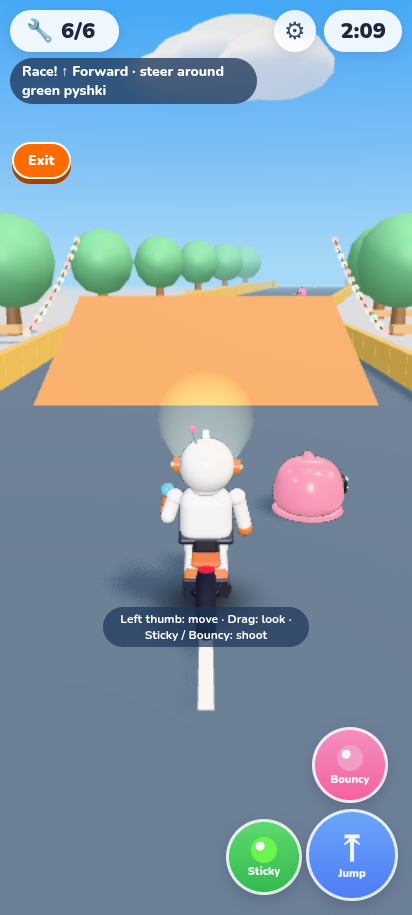
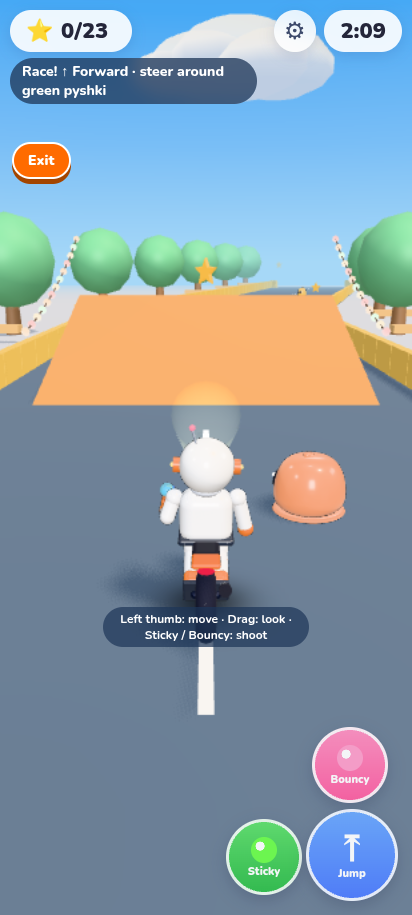
Race stars: low rows and ramp-only high stars, instanced spin, HUD counter and popup

diff --git a/src/ui/hud.ts b/src/ui/hud.ts
@@ -6,6 +6,7 @@ import { VEHICLES } from '../sim/vehicles';
 import { levelText, onLangChange, raceText, t } from './i18n';
 import { levelDef } from '../sim/levels';
 import { raceReady } from '../sim/race';
+import { courseStars } from '../sim/track';
 import { isClassic, onClassicChange, type SettingsPanel } from './settings';
 
 export function formatTime(s: number): string {
@@ -27,6 +28,9 @@ export class Hud {
   private rideBtn: HTMLButtonElement;
   private toastEl: HTMLDivElement;
   private trickEl: HTMLDivElement;
+  private bonusEl: HTMLDivElement;
+  private bonusTimer = 0;
+  private iconEl: HTMLElement;
   private toastTimer = 0;
   private trickTimer = 0;
   private labels: { el: HTMLElement; key: 'sticky' | 'bouncy' | 'jump' | 'block' }[] = [];
@@ -51,6 +55,7 @@ export class Hud {
       <div class="gate-compass" hidden><span>➤</span></div>
       <div class="toast"></div>
       <div class="trick"></div>
+      <div class="bonus-pop"></div>
       <button class="ride-btn" data-a="interact"></button>
       <div class="buttons">
         <button class="act act-sticky" data-a="sticky"><span class="ic"></span><span class="lb"></span></button>
@@ -74,6 +79,8 @@ export class Hud {
     this.rideBtn = q('.ride-btn');
     this.toastEl = q('.toast');
     this.trickEl = q('.trick');
+    this.bonusEl = q('.bonus-pop');
+    this.iconEl = q('.wrench-icon');
     this.tapHintEl = q('.tap-hint');
     q('.hud-right').prepend(settings.gearButton());
     const applyClassic = (v: boolean) => {
@@ -175,11 +182,15 @@ export class Hud {
       this.tapHintEl.classList.remove('on');
     }
     const clock = state.race.phase === 'racing' ? state.race.remaining : state.time;
-    const shown = [delivered, carrying, formatTime(clock), state.blocks.length, p.shape, hint, canMount, riding, nearLift].join('|');
+    const racing = state.race.phase === 'racing';
+    const starsTotal = racing && def.race ? courseStars(def.race.course).length : 0;
+    const shown = [racing, state.race.stars.length, delivered, carrying, formatTime(clock), state.blocks.length, p.shape, hint, canMount, riding, nearLift].join('|');
     if (shown !== this.lastShown) {
       this.lastShown = shown;
-      this.partsEl.textContent = `${delivered}/${total}`;
-      this.carryEl.textContent = carrying ? `+${carrying}` : '';
+      // during a race the parts pill turns into the star counter
+      this.iconEl.textContent = racing ? '⭐' : '🔧';
+      this.partsEl.textContent = racing ? `${state.race.stars.length}/${starsTotal}` : `${delivered}/${total}`;
+      this.carryEl.textContent = carrying && !racing ? `+${carrying}` : '';
       this.timeEl.textContent = formatTime(clock);
       this.hintEl.textContent = hint;
       this.blocksEl.textContent = `${p.stats.maxBlocks - state.blocks.length}`;
@@ -198,6 +209,10 @@ export class Hud {
     if (this.toastTimer > 0) {
       this.toastTimer -= dt;
       if (this.toastTimer <= 0) this.toastEl.classList.remove('on');
+    }
+    if (this.bonusTimer > 0) {
+      this.bonusTimer -= dt;
+      if (this.bonusTimer <= 0) this.bonusEl.classList.remove('on');
     }
     if (this.trickTimer > 0) {
       this.trickTimer -= dt;
@@ -228,9 +243,29 @@ export class Hud {
     this.trickTimer = 1.6;
   }
 
+  /** Small "+3s Fire ring!" popup for race bonuses. */
+  bonus(text: string, kind: string) {
+    this.bonusEl.textContent = text;
+    this.bonusEl.dataset.kind = kind;
+    this.bonusEl.classList.remove('on');
+    void this.bonusEl.offsetWidth;
+    this.bonusEl.classList.add('on');
+    this.bonusTimer = 1.3;
+  }
+
   onEvents(events: GameEvent[], state: GameState, playerId: number) {
     const s = t();
-    if (state.race.phase === 'racing') return;
+    if (state.race.phase === 'racing') {
+      const R = raceText();
+      for (const e of events) {
+        if (e.type === 'bonus') {
+          const [kind, sec] = (e.info ?? '').split(':');
+          const label = kind === 'ring' ? R.ring : kind === 'hit' ? R.hit : kind === 'trick' ? R.trick : R.bonus;
+          this.bonus(`+${sec}s ${label}`, kind);
+        } else if (e.type === 'star') this.bonus(`⭐ ${R.star}!`, 'star');
+      }
+      return;
+    }
     for (const e of events) {
       const mine = e.who === playerId;
       const names = state.garages[0]?.vehicle === 'scooter' ? levelText().parts : s.partNames;

diff --git a/src/render/view.ts b/src/render/view.ts
@@ -1,4 +1,5 @@
 import { raceOf } from '../sim/race';
+import { courseStars, type Star } from '../sim/track';
 import { buildHarbor } from './harbor';
 import { buildRaceRoad } from './raceRoad';
 import { batchStatic } from './art/batch';
@@ -112,6 +113,14 @@ export class GameView {
   private camFrame = 0;
   private meshHit = Infinity;
   private time = 0;
+  /** race stars: one spinning InstancedMesh for the whole course */
+  private stars: THREE.InstancedMesh | null = null;
+  private starList: Star[] = [];
+  private tmpM = new THREE.Matrix4();
+  private tmpQ = new THREE.Quaternion();
+  private tmpV = new THREE.Vector3();
+  private tmpS = new THREE.Vector3();
+  private yAxis = new THREE.Vector3(0, 1, 0);
   /** translucent replay of the best run (one mesh) and its decoded [x, y, z, yaw] path at GHOST_HZ */
   private ghostBike = buildGhostBike();
   private ghostPath: Float32Array | null = null;
@@ -135,6 +144,11 @@ export class GameView {
       const road = buildRaceRoad(raceOf(state)!, state.world.theme);
       this.gateCues = road.cues; this.gateArrow = road.arrow; this.gateArchMaterial = road.archMaterial; this.gate = road.gate; this.road = road.root;
       this.scene.add(road.cues, road.root, road.gate, road.entry);
+      this.starList = courseStars(raceOf(state)!.course);
+      this.stars = new THREE.InstancedMesh(starGeometry(), new THREE.MeshStandardMaterial({ color: 0xffd23f, emissive: 0xffa400, emissiveIntensity: 0.7, roughness: 0.3, metalness: 0.3 }), this.starList.length);
+      this.stars.name = 'race-stars';
+      this.stars.frustumCulled = false; // instances move every frame; the course-wide bounds would go stale
+      this.scene.add(this.stars);
     }
     let blockers: Solid[] = [];
     if (state.world.theme === 'harbor') {
@@ -245,6 +259,9 @@ export class GameView {
         case 'pickup':
         case 'deliver':
           this.burst(e.x, e.y, e.z, 24, [0xffd60a, 0xff6b00, 0xffffff], 6, 0.18);
+          break;
+        case 'star':
+          this.burst(e.x, e.y, e.z, 14, [0xffd23f, 0xffffff, 0xffa400], 4, 0.12);
           break;
         case 'built':
         case 'trick':
@@ -358,6 +375,19 @@ export class GameView {
       this.gateArchMaterial.emissiveIntensity = 0.9 + Math.sin(t * 3) * 0.3;
     }
     this.syncGhostBike(state, t);
+    if (this.stars) {
+      this.stars.visible = this.road.visible;
+      if (this.stars.visible) {
+        const got = state.race.stars;
+        this.tmpQ.setFromAxisAngle(this.yAxis, t * 2.4);
+        for (let i = 0; i < this.starList.length; i++) {
+          const st = this.starList[i], k = got.includes(i) ? 0 : 1 + Math.sin(t * 4 + i) * 0.08;
+          this.tmpM.compose(this.tmpV.set(st.x, st.y + Math.sin(t * 2 + i) * 0.12, st.z), this.tmpQ, this.tmpS.set(k, k, k));
+          this.stars.setMatrixAt(i, this.tmpM);
+        }
+        this.stars.instanceMatrix.needsUpdate = true;
+      }
+    }
     if (this.windowGlow) {
       const lost = state.pickups.some((pk) => pk.part === 'flashlight' && pk.status === 'world');
       this.windowGlow.visible = lost;
@@ -608,6 +638,19 @@ function makeBeam(color: number): THREE.Mesh {
       fog: false,
     }),
   );
+}
+
+/** Chunky five-point star, centered, facing +z. */
+function starGeometry(): THREE.BufferGeometry {
+  const shape = new THREE.Shape();
+  for (let i = 0; i <= 10; i++) {
+    const a = (i / 10) * Math.PI * 2 + Math.PI / 2, r = i % 2 ? 0.24 : 0.55;
+    if (i === 0) shape.moveTo(Math.cos(a) * r, Math.sin(a) * r);
+    else shape.lineTo(Math.cos(a) * r, Math.sin(a) * r);
+  }
+  const g = new THREE.ExtrudeGeometry(shape, { depth: 0.12, bevelEnabled: true, bevelThickness: 0.06, bevelSize: 0.05, bevelSegments: 1 });
+  g.translate(0, 0, -0.06);
+  return g;
 }
 
 /** Ghost rider: bike + hunched rider silhouette merged into one translucent, unlit mesh. */

diff --git a/src/sim/track.ts b/src/sim/track.ts
@@ -48,6 +48,31 @@ export function courseNear(c: Course, x: number, z: number) {
   return best;
 }
 
+/** Collectible stars along a course: low rows you ride through, plus one high above each ramp's lip that only a
+ *  ramp jump reaches. Deterministic per course (cached). */
+export interface Star { x: number; y: number; z: number; d: number; high: boolean }
+const starCache = new WeakMap<Course, Star[]>();
+export const STAR_RADIUS = 1.3;
+export function courseStars(c: Course): Star[] {
+  let stars = starCache.get(c);
+  if (stars) return stars;
+  stars = [];
+  const lanes = [-3, 0, 3];
+  for (let d = 30, i = 0; d < c.length - 15; d += 40, i++) {
+    if (c.jumps.some((j) => d > j - 12 && d < j + c.rampLength + 14)) continue;
+    if (c.gap && d > c.gap.start - 6 && d < c.gap.end + 6) continue;
+    const p = courseAt(c, d), lane = lanes[i % 3];
+    stars.push({ x: p.x - p.dz * lane, y: 1.1, z: p.z + p.dx * lane, d, high: false });
+  }
+  for (const j of c.jumps) {
+    const d = j + c.rampLength + 1.5, p = courseAt(c, d), lane = j === c.optionalJump ? -3.5 : 0;
+    stars.push({ x: p.x - p.dz * lane, y: c.rampHeight + 0.85, z: p.z + p.dx * lane, d, high: true });
+  }
+  stars.sort((a, b) => a.d - b.d);
+  starCache.set(c, stars);
+  return stars;
+}
+
 // Level 1: northbound city-to-park-to-market road, then a second park/boardwalk lap of S-bends.
 export const COURSE1 = makeCourse(
   [[80, 15], [80, -55], [98, -120], [80, -190], [62, -260], [80, -330], [98, -400], [80, -470], [80, -535], [62, -600], [80, -670], [98, -740], [80, -810], [80, -840]],

diff --git a/src/sim/race.ts b/src/sim/race.ts
@@ -1,4 +1,4 @@
-import { courseAt, courseNear } from './track';
+import { STAR_RADIUS, courseAt, courseNear, courseStars } from './track';
 import { levelDef, raceStart } from './levels';
 import { newRaceState, type GameState } from './types';
 import { VEHICLES } from './vehicles';
@@ -55,8 +55,19 @@ export function updateRace(s: GameState, dt: number) {
   populateRace(s);
   const v = s.vehicles.find(v => v.id === p.riding);
   if (!v) return;
+  collectStars(s, v.pos.x, v.pos.y + 0.5, v.pos.z);
   const near = courseNear(r.course, v.pos.x, v.pos.z);
   if (near.progress >= r.course.length - 0.01 && near.distance < r.course.rail + 0.5) raceFinish(s);
+}
+
+function collectStars(s: GameState, x: number, y: number, z: number) {
+  const stars = courseStars(raceOf(s)!.course);
+  for (let i = 0; i < stars.length; i++) {
+    const st = stars[i];
+    if ((st.x - x) ** 2 + (st.y - y) ** 2 + (st.z - z) ** 2 > STAR_RADIUS ** 2 || s.race.stars.includes(i)) continue;
+    s.race.stars.push(i);
+    s.events.push({ type: 'star', x: st.x, y: st.y, z: st.z, who: s.players[0].id, info: st.high ? 'high' : 'low' });
+  }
 }
 
 // Seven pooled creatures represent deterministic section spawns, never the whole course.

diff --git a/src/main.ts b/src/main.ts
@@ -15,6 +15,7 @@ import { createGame, fire, makeCollider, placeBlock, step } from './sim/step';
 import { emptyInput, type GameState, type InputCommand, type Look, type ProjectileKind } from './sim/types';
 import { levelDef, medalFor } from './sim/levels';
 import { saveRun } from './ui/records';
+import { courseStars } from './sim/track';
 import { GhostRecorder, loadGhost } from './ui/ghost';
 import { Bubbles } from './ui/bubbles';
 import { CreatorScreen } from './ui/creator';
@@ -248,7 +249,7 @@ function raceSummary(s: GameState): RaceSummary | null {
   const medal = medalFor(r, s.winTime), stars = s.race.stars.length;
   const { best, newTime } = saveRun(s.level, { time: s.winTime, medal, stars });
   if (newTime && recordedRun === s.race) recorder.save(s.level);
-  return { medal, best, newTime, stars, starsTotal: 0, bonus: s.race.bonus, points: s.race.points, hits: s.race.hits };
+  return { medal, best, newTime, stars, starsTotal: courseStars(r.course).length, bonus: s.race.bonus, points: s.race.points, hits: s.race.hits };
 }
 
 function resumePlay() { mode = 'play'; winDelay = 0; win.show(false); hud.show(true); bubbles.show(true); input.enabled = true; input.reset(); }

diff --git a/src/render/vehicleModels.ts b/src/render/vehicleModels.ts
@@ -69,7 +69,7 @@ const PITBIKE: Record<string, PartBuilder> = {
 };
 
 /** Warm additive cone shining forward (-z) from a lamp at (0, y, z). */
-export function headlightBeam(y: number, z: number, length = 4.2, radius = 0.95): THREE.Mesh {
+export function headlightBeam(y: number, z: number, length = 4.5, radius = 0.7): THREE.Mesh {
   const g = new THREE.ConeGeometry(radius, length, 20, 1, true);
   g.rotateX(Math.PI / 2); // tip toward +z
   g.translate(0, y, z - length / 2);
@@ -82,7 +82,7 @@ export function headlightBeam(y: number, z: number, length = 4.2, radius = 0.95)
   }
   g.setAttribute('color', new THREE.BufferAttribute(fade, 3));
   const beam = new THREE.Mesh(g, new THREE.MeshBasicMaterial({
-    color: 0xfff1b8, vertexColors: true, transparent: true, opacity: 0.32, depthWrite: false,
+    color: 0xfff1b8, vertexColors: true, transparent: true, opacity: 0.22, depthWrite: false,
     side: THREE.DoubleSide, blending: THREE.AdditiveBlending, fog: false,
   }));
   beam.name = 'headlight-beam';

diff --git a/src/style.css b/src/style.css
@@ -969,3 +969,12 @@ body:has(.toast.on) .controls-tip { visibility: hidden; }
   .win-card > .win-medal, .win-card > .win-stats { justify-self: center; }
   .win-icon { display: none; }
 }
+
+/* ---------- Race bonus popup ---------- */
+.bonus-pop { position: absolute; top: 34%; left: 50%; transform: translate(-50%, 10px) scale(0.6); opacity: 0; pointer-events: none;
+  font-size: 26px; font-weight: 900; color: #fff; white-space: nowrap; padding: 4px 14px; border-radius: 999px;
+  background: linear-gradient(135deg, #ff9f1c, #ff5d73); box-shadow: 0 4px 14px rgba(255, 93, 115, 0.45); transition: transform 0.2s, opacity 0.25s; }
+.bonus-pop.on { opacity: 1; transform: translate(-50%, -18px) scale(1); }
+.bonus-pop[data-kind='star'] { background: linear-gradient(135deg, #ffe066, #ffb300); color: #6e4a00; }
+.bonus-pop[data-kind='hit'] { background: linear-gradient(135deg, #5ee06a, #2bb673); }
+.bonus-pop[data-kind='trick'] { background: linear-gradient(135deg, #b388ff, #ff5fa2); }

diff --git a/src/render/audio.ts b/src/render/audio.ts
@@ -65,6 +65,15 @@ export function playEvent(e: GameEvent) {
       setTimeout(() => blip(880, 1760, 0.2, 'triangle', 0.12), 120);
       break;
     case 'built':
+    case 'star':
+      [880, 1175].forEach((f, i) => setTimeout(() => blip(f, f * 1.2, 0.1, 'sine', 0.07), i * 60));
+      break;
+    case 'bonus':
+      [523, 784, 1047].forEach((f, i) => setTimeout(() => blip(f, f * 1.1, 0.12, 'triangle', 0.08), i * 55));
+      break;
+    case 'bail':
+      blip(300, 120, 0.3, 'sawtooth', 0.05);
+      break;
     case 'trick':
       [392, 523, 659, 784].forEach((f, i) => setTimeout(() => blip(f, f * 1.5, 0.18, 'triangle', 0.12), i * 90));
       break;

diff --git a/PROGRESS.md b/PROGRESS.md
@@ -122,3 +122,12 @@ Tests:
   - On every later race the view loads and decodes the path. A single translucent, pulsing, unlit merged mesh (`ghost-bike`, one draw call) follows it, interpolated by `race.elapsed`, and hides when the path ends.
   - Browser check: a recorded 5 s run saves, and on the next race the ghost is visible and moving along the decoded path.
   - Build, sim and sweep pass.
+- R13.5 (item 5): Stars along both race tracks.
+  - `courseStars(course)` (cached, deterministic) puts low stars every 40 m, alternating three lanes. It skips ramp approaches and the gap.
+  - Each ramp also gets a high star just past its lip (rampHeight + 0.85 m) that only a ramp jump reaches. L1 has 23 stars (8 high).
+  - The sim collects stars within 1.3 m of the vehicle's centre into `race.stars` and emits `star`.
+  - Rendering is one spinning, bobbing gold InstancedMesh for the whole course (one draw call, reused matrices, collected stars scaled to 0).
+  - During a race the HUD parts pill becomes ⭐ n/total. A localized "⭐ Star!" popup and chime play on pickup. The finish card shows stars n/total.
+  - Sim test: the L1 bot collects 13/23 (7/8 high), and a standing hop under a high star cannot reach it.
+  - The headlight beam is softened (narrower, lower opacity).
+  - Build, sim and sweep pass.
